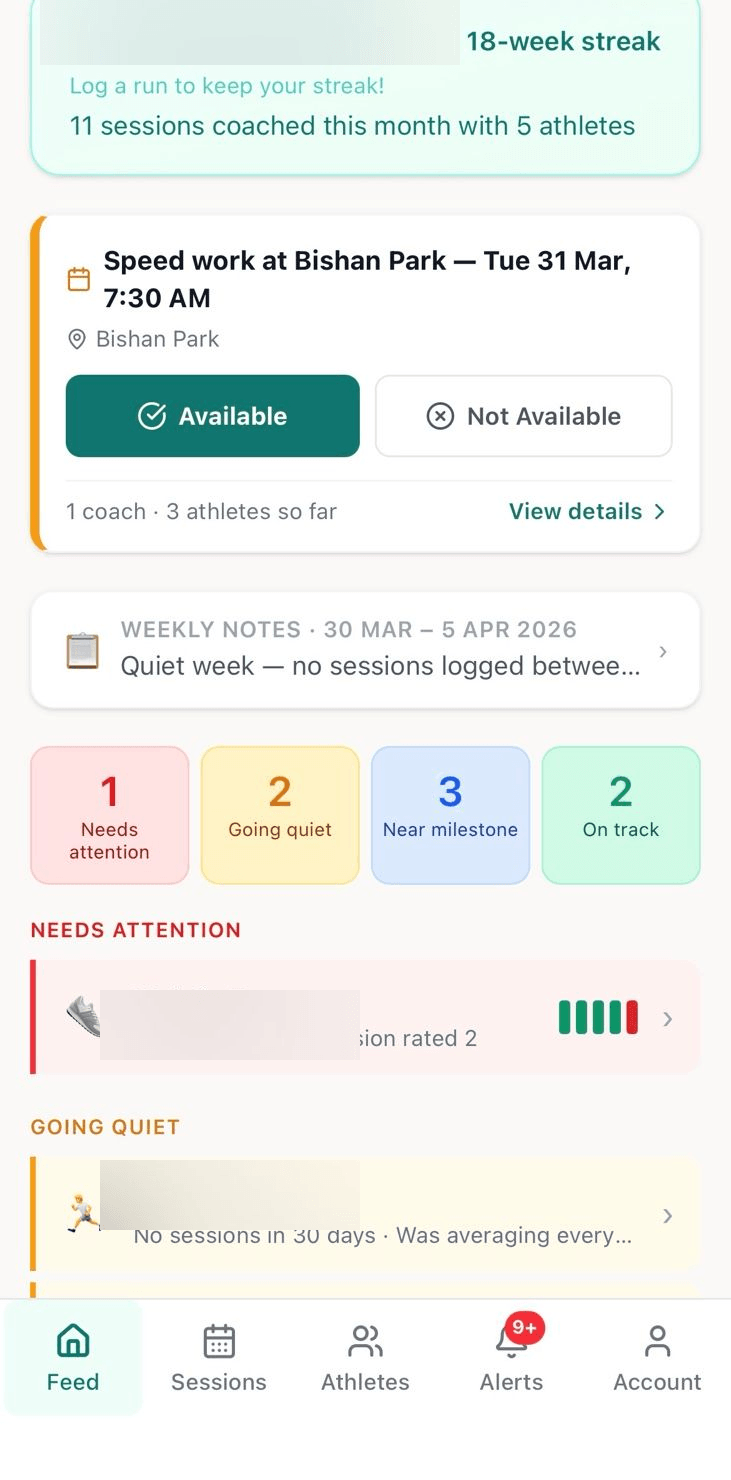
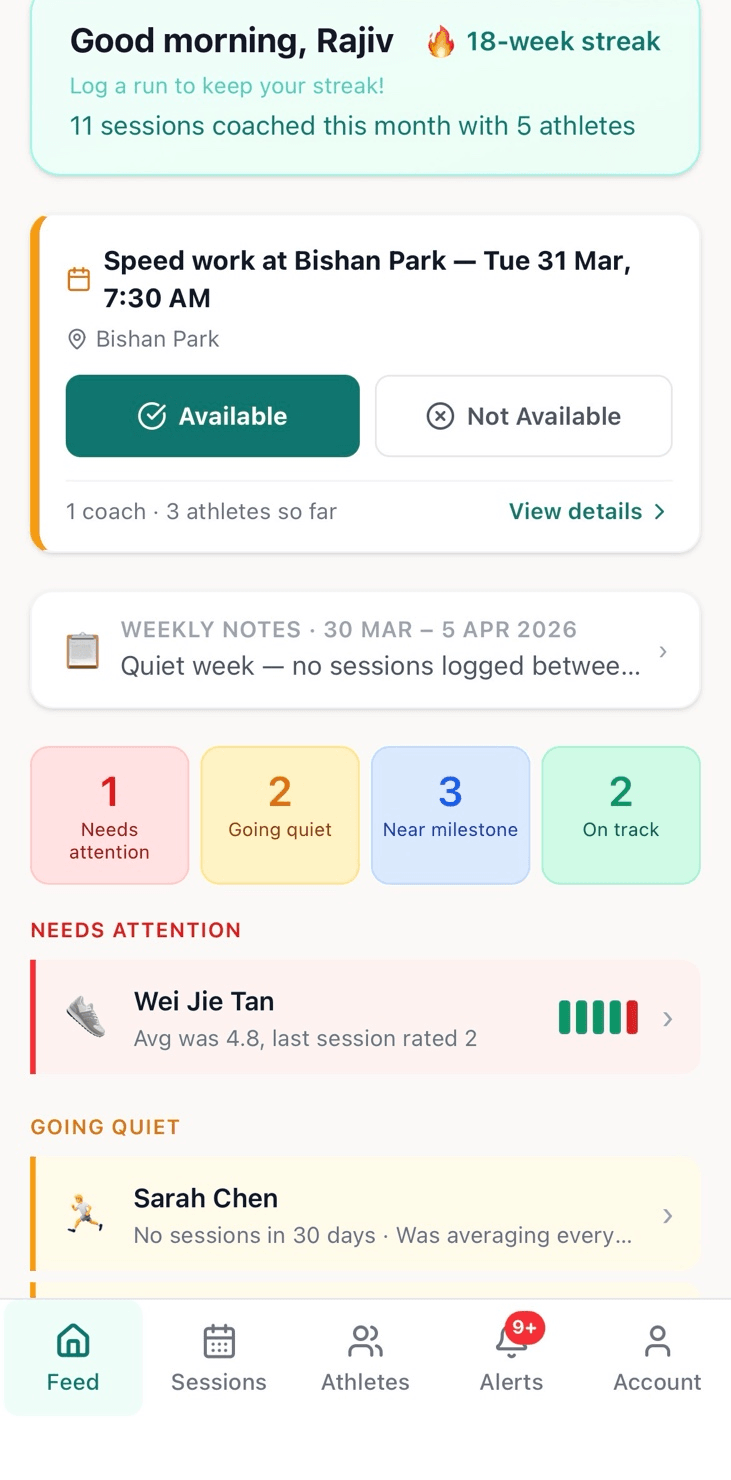
Remove blur from landing page screenshots — data is dummy
Clear all blur regions since the screenshot data is dummy/test data that
doesn't need privacy redaction. Images are now just cropped and resized.

https://claude.ai/code/session_01EyLE9jtknWGsZTbt8sRoLv

diff --git a/scripts/process-landing-screenshots.ts b/scripts/process-landing-screenshots.ts
@@ -22,77 +22,17 @@ interface ImageConfig {
   blurRegions: BlurRegion[];
 }
 
+// No blur regions — data is dummy, so names don't need redacting.
+// The blur region definitions are kept commented out for future reference
+// when real user data is used.
 const images: ImageConfig[] = [
-  {
-    // 731x1568, cropped: 731x1480
-    sourceFile: 'coach-feed.jpeg',
-    outputFile: 'landing-coach-feed.png',
-    blurRegions: [
-      { x: 40, y: 0, w: 420, h: 65 },      // "Good morning, Rajiv"
-      { x: 100, y: 990, w: 260, h: 70 },    // "Wei Jie Tan" under NEEDS ATTENTION
-      { x: 100, y: 1160, w: 260, h: 70 },   // "Sarah Chen" under GOING QUIET
-    ],
-  },
-  {
-    // 724x1568, cropped: 724x1480
-    sourceFile: 'athlete-journey.png',
-    outputFile: 'landing-athlete-journey.png',
-    blurRegions: [
-      { x: 100, y: 175, w: 530, h: 80 },   // "Hi Wei Jie Tan!"
-      { x: 170, y: 700, w: 380, h: 160 },   // "Your coach" + "Rajiv C" + "18 sessions"
-    ],
-  },
-  {
-    // 774x1501, cropped: 774x1413
-    sourceFile: 'milestone.jpeg',
-    outputFile: 'landing-milestone.png',
-    blurRegions: [
-      { x: 100, y: 440, w: 580, h: 110 },  // "Wei Jie Tan" large name
-      { x: 170, y: 680, w: 440, h: 55 },    // "Coached by Rajiv C"
-    ],
-  },
-  {
-    // 775x1568, cropped: 775x1480
-    sourceFile: 'caregiver.jpeg',
-    outputFile: 'landing-caregiver.png',
-    blurRegions: [
-      { x: 50, y: 100, w: 620, h: 120 },   // "Wei chose this avatar" + "Here's how Wei Jie Tan"
-      { x: 150, y: 500, w: 470, h: 55 },    // "View Wei's journey story"
-      { x: 25, y: 770, w: 350, h: 80 },     // "Wei Jie Tan Attending"
-      { x: 30, y: 1040, w: 580, h: 70 },    // "WHAT COACHES ARE SAYING ABOUT WEI"
-      { x: 60, y: 1100, w: 620, h: 200 },   // Quote body with "Wei Jie" mentions
-      { x: 80, y: 1320, w: 250, h: 60 },    // "Rajiv C" at quote attribution
-    ],
-  },
-  {
-    // 724x1568, cropped: 724x1480
-    sourceFile: 'session.png',
-    outputFile: 'landing-session.png',
-    blurRegions: [
-      { x: 20, y: 270, w: 710, h: 260 },   // COACHES section (all names)
-      { x: 20, y: 530, w: 710, h: 270 },    // ATHLETES section (all names)
-      { x: 20, y: 800, w: 710, h: 420 },    // ALL PAIRINGS section (all names, extends to bottom)
-    ],
-  },
-  {
-    // 724x1568, cropped: 724x1480
-    sourceFile: 'cues.png',
-    outputFile: 'landing-cues.png',
-    blurRegions: [
-      { x: 30, y: 0, w: 260, h: 55 },      // "Wei Jie Tan" header
-    ],
-  },
-  {
-    // 724x1568, cropped: 724x1480
-    sourceFile: 'club-stats.png',
-    outputFile: 'landing-club-stats.png',
-    blurRegions: [
-      { x: 40, y: 0, w: 550, h: 150 },     // PB notifications (all names)
-      { x: 40, y: 540, w: 680, h: 100 },    // Filter pills with first names
-      { x: 25, y: 700, w: 440, h: 260 },    // First session card ("Rajiv C ran with" + "Arun Kumar")
-      { x: 25, y: 1000, w: 440, h: 260 },   // Second session card ("Rajiv C ran with" + "Danish Rizal")
-    ],
-  },
+  { sourceFile: 'coach-feed.jpeg', outputFile: 'landing-coach-feed.png', blurRegions: [] },
+  { sourceFile: 'athlete-journey.png', outputFile: 'landing-athlete-journey.png', blurRegions: [] },
+  { sourceFile: 'milestone.jpeg', outputFile: 'landing-milestone.png', blurRegions: [] },
+  { sourceFile: 'caregiver.jpeg', outputFile: 'landing-caregiver.png', blurRegions: [] },
+  { sourceFile: 'session.png', outputFile: 'landing-session.png', blurRegions: [] },
+  { sourceFile: 'cues.png', outputFile: 'landing-cues.png', blurRegions: [] },
+  { sourceFile: 'club-stats.png', outputFile: 'landing-club-stats.png', blurRegions: [] },
 ];
 
 async function processImage(config: ImageConfig): Promise<void> {
